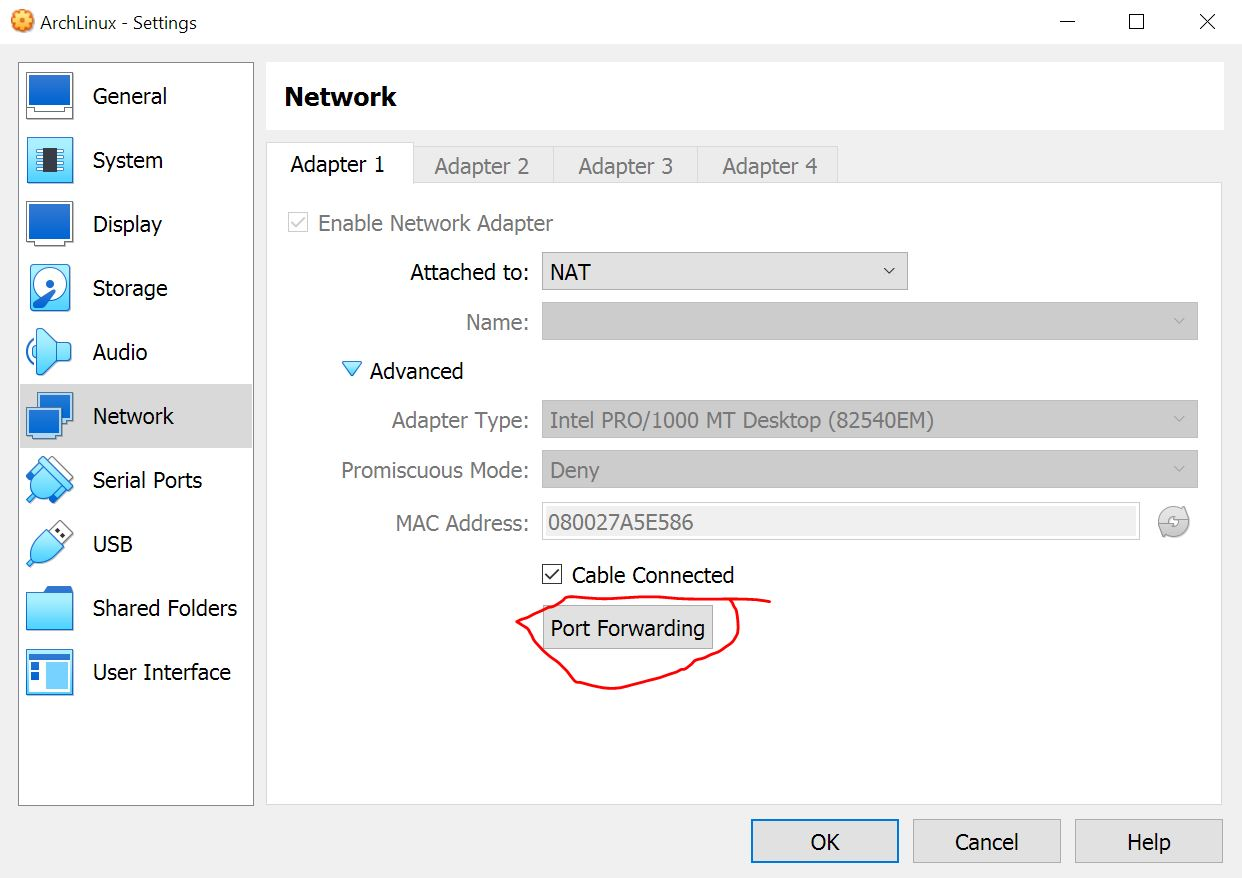
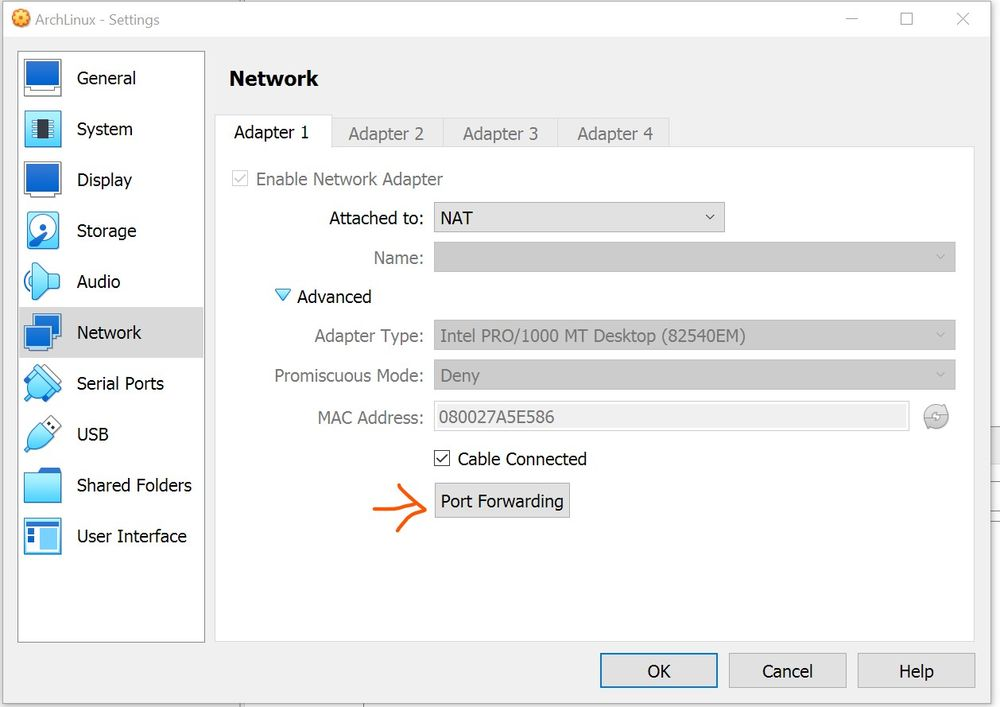
Sundry

diff --git a/ArchLinux/ArchLinuxInstallAndSetup.md b/ArchLinux/ArchLinuxInstallAndSetup.md
@@ -36,6 +36,7 @@
 
 ### Virtualbox networking summary
 
-![Bkah](/EmbeddedImages/VirtualBoxNetworking.JPG?raw=true "Optional Title")
+![](/EmbeddedImages/VirtualBoxNetworking.JPG?raw=true "")
 
+![](/EmbeddedImages/VirtualBoxPortForwarding.JPG?raw=true "")
 
